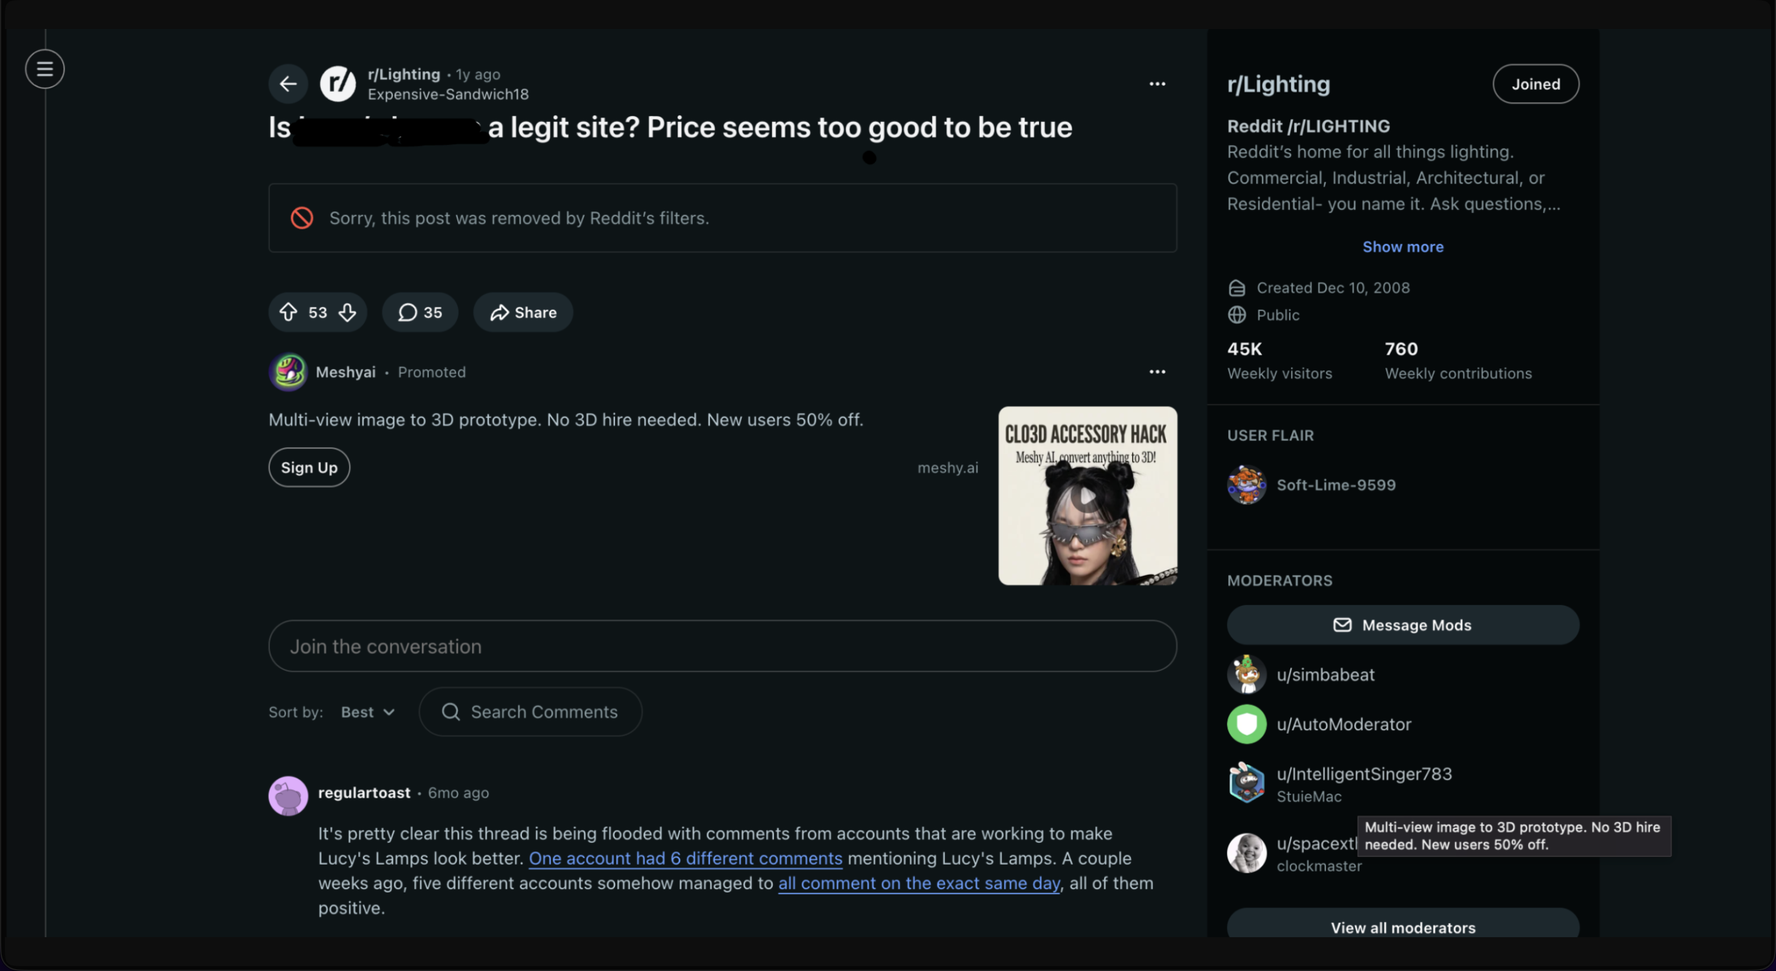
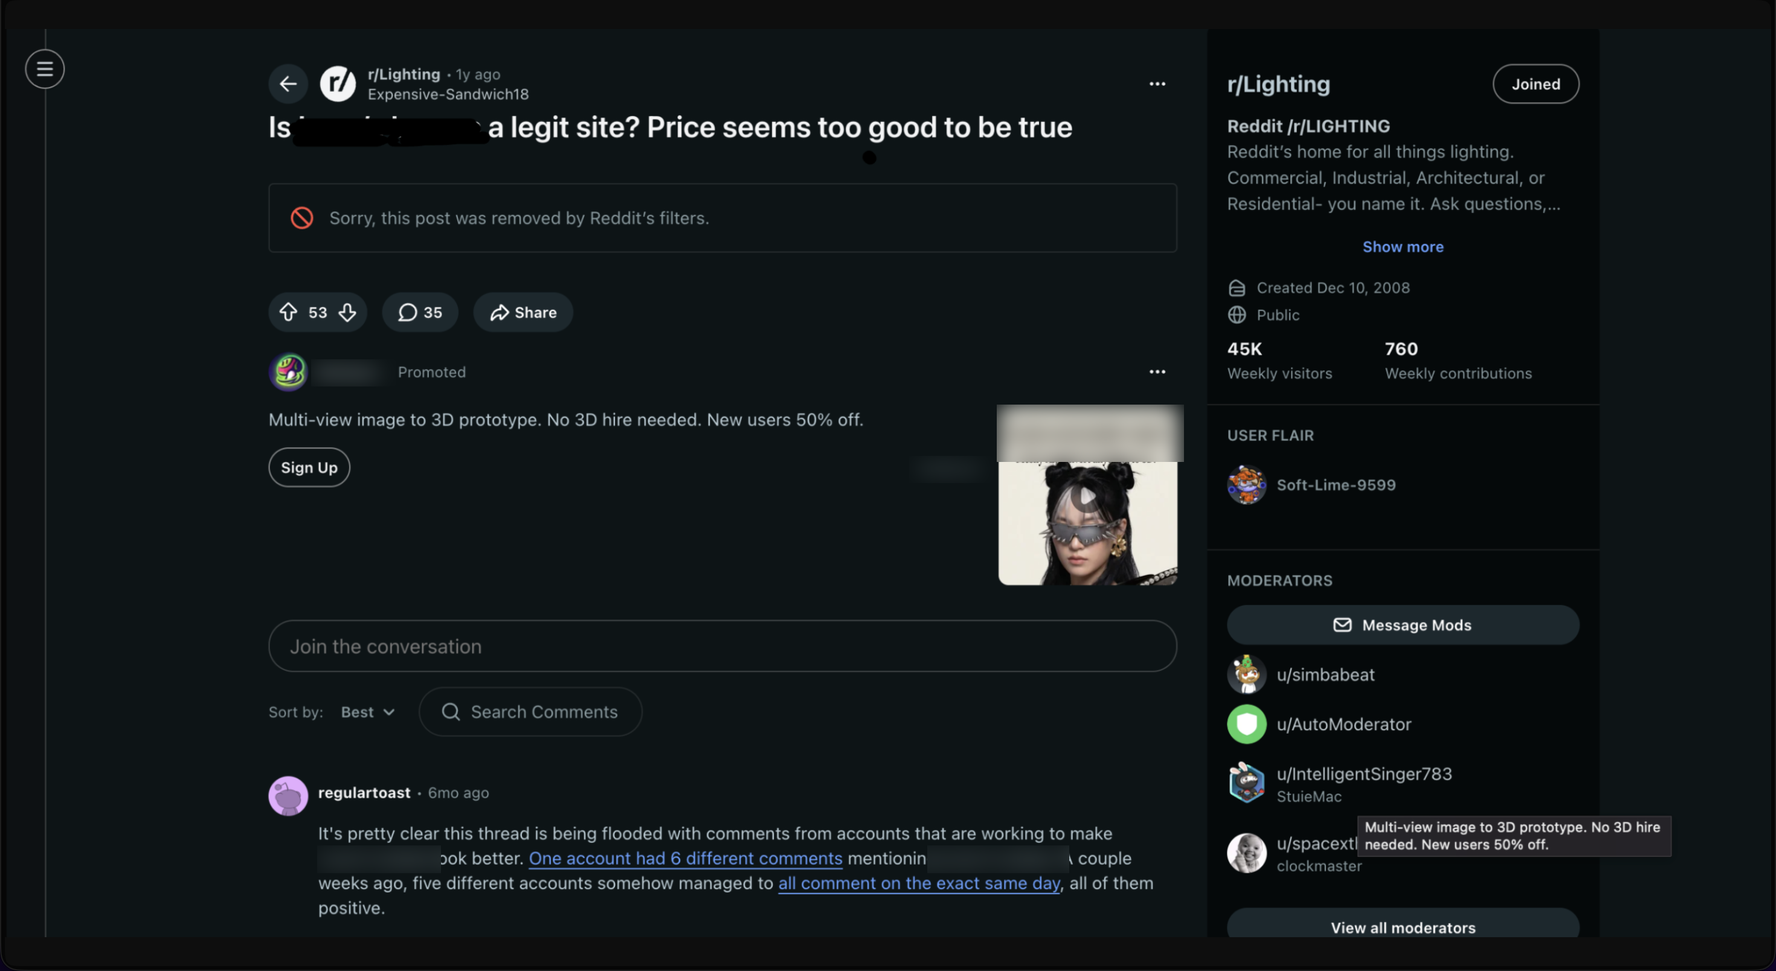
refactor: remove static case study data
Cleaned up App.tsx by removing hardcoded case study data to prepare for dynamic content integration and added navigation icons.

diff --git a/src/App.tsx b/src/App.tsx
@@ -21,6 +21,8 @@ import {
   Calendar,
   X,
   Video,
+  ChevronLeft,
+  ChevronRight,
 } from 'lucide-react';
 
 interface SubmittedCaseDetails {
@@ -206,39 +208,6 @@ function PostWipeLogoMark({ className = 'w-10 h-10' }: { className?: string }) {
   );
 }
 
-const CASE_STUDIES = [
-  {
-    id: 'PW-941',
-    sector: 'B2B SaaS Platform (Series A)',
-    subreddit: 'r/SaaS & r/entrepreneur',
-    issue: 'Viral competitor smear thread ranking #2 on Google for "[Brand] reviews" and cited by ChatGPT.',
-    scope: 'Full Thread Removal + Google & AI De-Index',
-    timeline: '8 Business Days',
-    escrowStatus: 'Escrow Released Post-Removal',
-    metrics: 'Page-1 Google snippet & ChatGPT citation purged within 48h of Reddit deletion.',
-  },
-  {
-    id: 'PW-884',
-    sector: 'DTC Health & Supplement Brand',
-    subreddit: 'r/Supplements',
-    issue: '3-year-old thread with unverified product safety claims driving a 28% drop in branded checkout conversion.',
-    scope: 'Complete Root Thread Deletion',
-    timeline: '11 Business Days',
-    escrowStatus: 'Escrow Released Post-Removal',
-    metrics: 'Root post permanently removed at source; Google URL removal completed in 36 hours.',
-  },
-  {
-    id: 'PW-917',
-    sector: 'Fintech Founder & Executive',
-    subreddit: 'r/fintech & r/startups',
-    issue: 'Doxxing and defamatory commentary by a former contractor appearing on page 1 for the founder’s full name.',
-    scope: 'Targeted Comment Tree Wipe + Search Cache Purge',
-    timeline: '5 Business Days',
-    escrowStatus: 'Escrow Released Post-Removal',
-    metrics: '14 defamatory comments wiped under harassment & PII policy without alerting the thread author.',
-  },
-];
-
 const FAQS = [
   {
     q: 'What if the subreddit moderators already ignored or rejected our takedown request?',
@@ -278,6 +247,75 @@ export function App() {
   const [submittedCase, setSubmittedCase] = useState<SubmittedCaseDetails | null>(null);
   const [openFaqIndex, setOpenFaqIndex] = useState<number | null>(0);
   const [previewMode, setPreviewMode] = useState<'after' | 'before'>('after');
+  const [activeProofIndex, setActiveProofIndex] = useState<number>(0);
+
+  const clientProofSlides = [
+    {
+      id: 'PW-LGT-204',
+      subreddit: 'r/Lighting (45K Weekly Visitors)',
+      sector: 'D2C E-Commerce & Architectural Lighting',
+      metrics: '53 Upvotes • 35 Replies',
+      status: 'Removed by Reddit Filters',
+      image: '/assets/aistudio/Screenshot_2026-10-26_at_02.55.40_4bfa1df0.png',
+    },
+    {
+      id: 'PW-ENG-201',
+      subreddit: 'r/IndianEngineers (31K+ Members)',
+      sector: 'Engineering & Industrial Recruitment',
+      metrics: '2,000+ Upvotes • 22 Replies • 463 Shares',
+      status: 'Removed by Reddit Filters',
+      image: '/assets/aistudio/Screenshot_2026-10-26_at_03.24.49_b07a1d32.png',
+    },
+    {
+      id: 'PW-CAR-202',
+      subreddit: 'r/IndiaCareers (92K Weekly Visitors)',
+      sector: 'Enterprise Hiring & HR Tech',
+      metrics: '935 Upvotes • 33 Replies • 88 Shares',
+      status: 'Removed by Moderator & Locked',
+      image: '/assets/aistudio/Screenshot_2026-10-26_at_03.24.43_6ad6a35b.png',
+    },
+    {
+      id: 'PW-CSC-203',
+      subreddit: 'r/cscareerquestions (544K Weekly Visitors)',
+      sector: 'Software Training & EdTech Platform',
+      metrics: '10 Upvotes • 56 Replies • 32 Shares',
+      status: 'Removed by Moderators',
+      image: '/assets/aistudio/Screenshot_2026-10-26_at_03.24.56_496a2012.png',
+    },
+    {
+      id: 'PW-GMB-205',
+      subreddit: 'r/gambling (182K Members)',
+      sector: 'Regulated iGaming & Digital Entertainment',
+      metrics: '14 Upvotes • 21 Replies • 310 Shares',
+      status: 'Removed by Moderator & Archived',
+      image: '/assets/aistudio/Screenshot_2026-10-26_at_03.23.27_a3d91ed2.png',
+    },
+    {
+      id: 'PW-MED-206',
+      subreddit: 'r/PiratingWebsites (346K Weekly Visitors)',
+      sector: 'Sports Media & Digital Broadcasting',
+      metrics: '7 Upvotes • 2 Replies • 17 Shares',
+      status: 'Removed by Reddit Filters',
+      image: '/assets/aistudio/Screenshot_2026-10-26_at_03.24.30_ebca3f99.png',
+    },
+    {
+      id: 'PW-ARC-207',
+      subreddit: 'r/PiracyArchive (278K Weekly Visitors)',
+      sector: 'Digital Media & Content Protection',
+      metrics: '17 Replies • 12 Shares',
+      status: 'Removed by Reddit Filters',
+      image: '/assets/aistudio/Screenshot_2026-10-26_at_03.24.19_e5af89ad.png',
+    },
+    {
+      id: 'PW-WEB-208',
+      subreddit: 'r/website (20K Members)',
+      sector: 'Digital Platform & Brand Protection',
+      metrics: '1 Upvote • 2 Replies',
+      status: 'Removed by Reddit Filters',
+      image: '/assets/aistudio/Screenshot_2026-10-26_at_03.24.08_848815a3.png',
+    },
+  ];
+  const currentProofSlide = clientProofSlides[activeProofIndex] || clientProofSlides[0];
 
   const [activePage, setActivePage] = useState<'reddit' | 'news'>(() => {
     if (typeof window !== 'undefined') {
@@ -1316,16 +1354,16 @@ export function App() {
               </div>
             </div>
 
-            {/* FLAGSHIP CASE STUDY DOSSIER: E-COMMERCE & LIGHTING BRAND (r/Lighting) */}
-            <div className="mb-12 rounded-2xl border-2 border-blue-100 bg-white shadow-xl shadow-blue-900/5 overflow-hidden">
+            {/* MULTI-CLIENT VERIFIED REMOVAL PORTFOLIO & CASE DOSSIER */}
+            <div className="rounded-2xl border-2 border-blue-100 bg-white shadow-xl shadow-blue-900/5 overflow-hidden">
               {/* Dossier Top Header Bar */}
               <div className="px-6 py-4 bg-[#F4F6FB] border-b border-gray-200 flex flex-wrap items-center justify-between gap-3">
-                <div className="flex items-center gap-3">
+                <div className="flex flex-wrap items-center gap-3">
                   <span className="font-mono text-xs font-extrabold px-3 py-1 rounded-md bg-[#2563EB] text-white">
-                    FEATURED CASE DOSSIER // PW-LIGHT-204
+                    VERIFIED CLIENT PORTFOLIO // LIVE REMOVAL PROOFS
                   </span>
                   <span className="font-mono text-xs text-gray-600 font-semibold">
-                    Subreddit: r/Lighting (45K+ Weekly Visitors)
+                    Communities up to 544K+ Weekly Visitors • Brand Identities Redacted Under NDA
                   </span>
                 </div>
                 <div className="flex items-center gap-2">
@@ -1337,25 +1375,25 @@ export function App() {
               </div>
 
               {/* Dossier Main Content Grid */}
-              <div className="p-6 sm:p-8 lg:p-10 space-y-8">
-                {/* Headline & Screenshot Proof Split */}
+              <div className="p-6 sm:p-8 lg:p-10 space-y-10">
+                {/* Multi-Client Overview & Coverflow Proof Slider Split */}
                 <div className="grid grid-cols-1 lg:grid-cols-12 gap-8 items-center">
-                  <div className="lg:col-span-6 space-y-4">
+                  <div className="lg:col-span-5 space-y-4">
                     <div className="text-xs font-mono uppercase tracking-wider text-[#2563EB] font-bold">
-                      Sector: Direct-to-Consumer E-Commerce &amp; Architectural Lighting Brand
+                      Previous Clients Across E-Commerce, Tech &amp; Engineering, EdTech, Digital Media &amp; iGaming
                     </div>
                     <h3 className="font-display text-2xl sm:text-3xl font-extrabold text-[#111827] leading-tight">
-                      Eliminating a Page-1 Google Defamation Thread in r/Lighting (&ldquo;Is [Brand] a legit site?&rdquo;)
+                      Eliminating Page-1 Google Defamation &amp; Viral Crisis Threads Across High-Authority Subreddits
                     </h3>
                     <p className="text-sm sm:text-[15px] text-gray-600 leading-relaxed">
-                      A high-ranking thread in <strong className="text-[#111827]">r/Lighting</strong> accusing a growing lighting brand of 400% price markups, dropshipping, and coordinated comment manipulation was dominating Page 1 of Google for branded buyer-intent searches. PostWipe executed a forensic policy audit, administrative escalation, and rapid search cache purge under a 100% Pay-on-Success escrow structure.
+                      Our previous clients faced severe commercial and reputational damage from high-ranking Reddit threads dominating Page 1 of Google for branded searches, ranging from <strong className="text-[#111827]">2,000+ upvote viral scam alerts</strong> in engineering communities and <strong className="text-[#111827]">935+ upvote recruitment disputes</strong> to D2C e-commerce legitimacy attacks, career platform accusations, and unauthorized media threads. PostWipe executed forensic policy audits, official administrative escalations, and rapid search cache purges across every engagement under a 100% Pay-on-Success escrow structure.
                     </p>
 
                     <div className="grid grid-cols-3 gap-3 pt-2">
                       <div className="p-3.5 rounded-xl bg-[#F4F6FB] border border-gray-200">
-                        <div className="font-mono text-[10px] uppercase text-gray-500 font-bold">Target Thread</div>
+                        <div className="font-mono text-[10px] uppercase text-gray-500 font-bold">Thread Scale</div>
                         <div className="font-display font-extrabold text-sm sm:text-base text-[#111827] mt-0.5">
-                          53 Upvotes / 35 Replies
+                          Up to 2K+ Upvotes
                         </div>
                       </div>
                       <div className="p-3.5 rounded-xl bg-[#F4F6FB] border border-gray-200">
@@ -1373,38 +1411,100 @@ export function App() {
                     </div>
                   </div>
 
-                  {/* Verified Live Proof Screenshot */}
-                  <div className="lg:col-span-6">
-                    <div className="rounded-2xl overflow-hidden border-2 border-gray-200 bg-[#111827] shadow-lg">
-                      <div className="px-4 py-2.5 bg-gray-900 border-b border-gray-800 flex items-center justify-between">
-                        <span className="font-mono text-[11px] text-gray-300">
-                          Verified Removal Evidence // r/Lighting Thread Unpublishing
-                        </span>
-                        <span className="font-mono text-[10px] px-2 py-0.5 rounded bg-[#2563EB] text-white font-bold">
-                          VERIFIED DELETED
-                        </span>
-                      </div>
-                      <img
-                        src="/assets/aistudio/Screenshot_2026-10-26_at_02.55.40_4bfa1df0.png"
-                        alt="Verified removal of r/Lighting Reddit thread showing post removed by Reddit filters"
-                        className="w-full h-auto object-cover"
+                  {/* Layered Coverflow Slide Showcase (Large Pictures, Compact Buttons, Slow Smooth Sliding) */}
+                  <div className="lg:col-span-7">
+                    <div className="relative rounded-2xl overflow-hidden bg-[#1A1D24] px-4 sm:px-6 py-4 sm:py-5 shadow-2xl border border-gray-800/80 select-none">
+                      {/* Soft Blurred Ambient Backdrop of Current Slide */}
+                      <div
+                        className="absolute inset-0 bg-cover bg-center opacity-25 blur-2xl scale-110 transition-all duration-1000 ease-in-out pointer-events-none"
+                        style={{ backgroundImage: `url(${currentProofSlide.image})` }}
                       />
+                      <div className="absolute inset-0 bg-gradient-to-b from-[#111827]/60 via-[#111827]/40 to-[#111827]/75 pointer-events-none" />
+
+                      {/* Layered 3-Card Stage (Prev Peeking Left, Active Centered, Next Peeking Right) */}
+                      <div className="relative w-full aspect-[2940/1608] flex items-center justify-center">
+                        {clientProofSlides.map((slide, idx) => {
+                          const total = clientProofSlides.length;
+                          const prevIdx = (activeProofIndex - 1 + total) % total;
+                          const nextIdx = (activeProofIndex + 1) % total;
+
+                          let positionClasses =
+                            'opacity-0 scale-75 translate-x-0 z-0 pointer-events-none';
+                          if (idx === activeProofIndex) {
+                            positionClasses =
+                              'opacity-100 scale-100 translate-x-0 z-20 shadow-[0_22px_55px_rgba(0,0,0,0.85)] ring-1 ring-white/15';
+                          } else if (idx === prevIdx) {
+                            positionClasses =
+                              'opacity-55 scale-[0.88] -translate-x-[10%] z-10 brightness-75 shadow-xl cursor-pointer';
+                          } else if (idx === nextIdx) {
+                            positionClasses =
+                              'opacity-55 scale-[0.88] translate-x-[10%] z-10 brightness-75 shadow-xl cursor-pointer';
+                          }
+
+                          return (
+                            <div
+                              key={slide.id}
+                              onClick={() => {
+                                if (idx === prevIdx || idx === nextIdx) {
+                                  setActiveProofIndex(idx);
+                                }
+                              }}
+                              className={`absolute inset-0 rounded-lg overflow-hidden bg-[#0B0F19] transition-all duration-[900ms] ease-[cubic-bezier(0.22,1,0.36,1)] ${positionClasses}`}
+                            >
+                              <img
+                                src={slide.image}
+                                alt="Verified Reddit thread removal proof"
+                                className="w-full h-full object-cover"
+                                draggable={false}
+                              />
+                            </div>
+                          );
+                        })}
+
+                        {/* Compact Outlined Left Button */}
+                        <button
+                          type="button"
+                          onClick={() =>
+                            setActiveProofIndex((prev) =>
+                              prev === 0 ? clientProofSlides.length - 1 : prev - 1
+                            )
+                          }
+                          aria-label="Previous slide"
+                          className="absolute -left-2 sm:-left-3 top-1/2 -translate-y-1/2 w-7 h-8 sm:w-8 sm:h-9 border border-[#60A5FA]/90 bg-[#111827]/65 hover:bg-[#2563EB]/90 backdrop-blur-xs text-white flex items-center justify-center transition-all duration-300 cursor-pointer z-30 shadow-md"
+                        >
+                          <ChevronLeft className="w-3.5 h-3.5 sm:w-4 sm:h-4 stroke-[2]" />
+                        </button>
+
+                        {/* Compact Outlined Right Button */}
+                        <button
+                          type="button"
+                          onClick={() =>
+                            setActiveProofIndex((prev) =>
+                              prev === clientProofSlides.length - 1 ? 0 : prev + 1
+                            )
+                          }
+                          aria-label="Next slide"
+                          className="absolute -right-2 sm:-right-3 top-1/2 -translate-y-1/2 w-7 h-8 sm:w-8 sm:h-9 border border-[#60A5FA]/90 bg-[#111827]/65 hover:bg-[#2563EB]/90 backdrop-blur-xs text-white flex items-center justify-center transition-all duration-300 cursor-pointer z-30 shadow-md"
+                        >
+                          <ChevronRight className="w-3.5 h-3.5 sm:w-4 sm:h-4 stroke-[2]" />
+                        </button>
+                      </div>
                     </div>
                   </div>
                 </div>
 
-                {/* 4-Stage Institutional Case Study Breakdown */}
+                {/* 4-Stage Institutional Multi-Client Execution Breakdown */}
                 <div className="grid grid-cols-1 md:grid-cols-2 gap-6 pt-4 border-t border-gray-200">
                   {/* 01. Executive Summary & Challenge */}
                   <div className="p-6 rounded-2xl bg-[#F4F6FB] border border-gray-200 space-y-2.5">
                     <div className="font-mono text-xs font-bold uppercase text-[#2563EB]">
-                      01 // Executive Summary &amp; Challenge
+                      01 // Multi-Client Challenge &amp; Search Impact
                     </div>
                     <h4 className="font-display text-lg font-extrabold text-[#111827]">
-                      High-Intent Search Contamination &amp; Checkout Abandonment
+                      High-Intent Search Contamination Across Buyer &amp; Candidate Funnels
                     </h4>
                     <p className="text-xs sm:text-sm text-gray-600 leading-relaxed">
-                      Prospective customers researching the lighting brand prior to checkout encountered a viral thread in <strong className="text-[#111827]">r/Lighting</strong> titled <em>&ldquo;Is [Brand] a legit site? Price seems too good to be true.&rdquo;</em> The thread accumulated 53 upvotes and 35 comments containing unverified accusations of 400% price inflation, dropshipping, and subpar product quality, directly eroding high-ticket cart conversions and brand equity.
+                      Across our previous client engagements, hostile Reddit threads ranging from 50+ upvote e-commerce legitimacy debates to 2,000+ upvote viral scam accusations ranked on Page 1 of Google for exact brand names. Prospects, enterprise partners, and job applicants researching these companies encountered unverified allegations prior to checkout or contract signing.
                     </p>
                   </div>
 
@@ -1417,7 +1517,7 @@ export function App() {
                       Identifying Actionable Sitewide Policy Violations
                     </h4>
                     <p className="text-xs sm:text-sm text-gray-600 leading-relaxed">
-                      PostWipe’s compliance analysts performed a comprehensive forensic audit of the root submission and its 35-comment tree. Rather than arguing commercial opinions, our team isolated concrete violations of Reddit’s sitewide Content Policy, including coordinated brigading, vote and platform manipulation accusations, targeted commercial harassment, and unauthorized data sharing.
+                      PostWipe’s compliance analysts performed forensic audits of each root submission and its comment tree. Rather than arguing commercial opinions, our team isolated concrete violations of Reddit’s sitewide Content Policy, including targeted commercial harassment, coordinated brigading, vote manipulation, and unauthorized intellectual property or data sharing.
                     </p>
                   </div>
 
@@ -1427,10 +1527,10 @@ export function App() {
                       03 // Strategic Escalation &amp; Execution
                     </div>
                     <h4 className="font-display text-lg font-extrabold text-[#111827]">
-                      Administrative Takedown Without Triggering the Streisand Effect
+                      Administrative Takedowns Without Triggering the Streisand Effect
                     </h4>
                     <p className="text-xs sm:text-sm text-gray-600 leading-relaxed">
-                      Previous attempts to counter the narrative in the comments had backfired, prompting hostile users to accuse the brand of astroturfing. PostWipe bypassed volunteer <strong className="text-[#111827]">r/Lighting</strong> moderators completely and escalated a formal policy compliance dossier through official administrative channels, ensuring zero public footprint or secondary backlash.
+                      Publicly replying or messaging hostile volunteer moderators frequently backfires and triggers secondary threads. PostWipe executed structured compliance filings through official administrative and policy channels, achieving permanent filter and moderator removals across every client engagement with zero public blowback.
                     </p>
                   </div>
 
@@ -1443,47 +1543,11 @@ export function App() {
                       Permanent Thread Removal, Google De-Indexing &amp; Escrow Settlement
                     </h4>
                     <p className="text-xs sm:text-sm text-gray-600 leading-relaxed">
-                      The offending thread was permanently removed from public view at the source and immediately submitted for expedited Google search cache clearing. With the damaging snippet purged from branded search results, checkout conversion velocity normalized. Only after the client verified both source removal and search de-indexing were the funds released from neutral third-party escrow.
+                      Every offending thread was permanently removed from public view at the source and immediately submitted for expedited Google search cache clearing. Only after each client independently verified source deletion and search de-indexing were funds released from neutral Escrow.com protection.
                     </p>
                   </div>
                 </div>
               </div>
-            </div>
-
-            <div className="grid grid-cols-1 lg:grid-cols-3 gap-6">
-              {CASE_STUDIES.map((cs) => (
-                <div
-                  key={cs.id}
-                  className="pw-card bg-[#F4F6FB] rounded-2xl p-7 border border-gray-200 flex flex-col justify-between"
-                >
-                  <div>
-                    <div className="flex items-center justify-between gap-2 mb-4">
-                      <span className="font-mono text-xs font-bold px-2.5 py-1 rounded bg-[#1E3A8A] text-white">
-                        CASE {cs.id}
-                      </span>
-                      <span className="font-mono text-xs font-semibold text-[#2563EB] bg-blue-100/80 px-2.5 py-1 rounded">
-                        {cs.timeline}
-                      </span>
-                    </div>
-
-                    <div className="text-xs font-mono text-gray-500 mb-1">{cs.subreddit}</div>
-                    <h3 className="font-display text-lg font-extrabold text-[#111827] mb-3">
-                      {cs.sector}
-                    </h3>
-                    <p className="text-sm text-gray-600 leading-relaxed mb-5">{cs.issue}</p>
-                  </div>
-
-                  <div className="pt-4 border-t border-gray-200 space-y-2 text-xs">
-                    <div className="flex items-center justify-between">
-                      <span className="text-gray-500 font-medium">Action Executed:</span>
-                      <span className="font-mono font-bold text-[#111827]">{cs.scope}</span>
-                    </div>
-                    <div className="p-2.5 rounded-lg bg-blue-50 border border-blue-200/80 text-blue-950 font-medium">
-                      {cs.metrics}
-                    </div>
-                  </div>
-                </div>
-              ))}
             </div>
           </div>
         </section>
